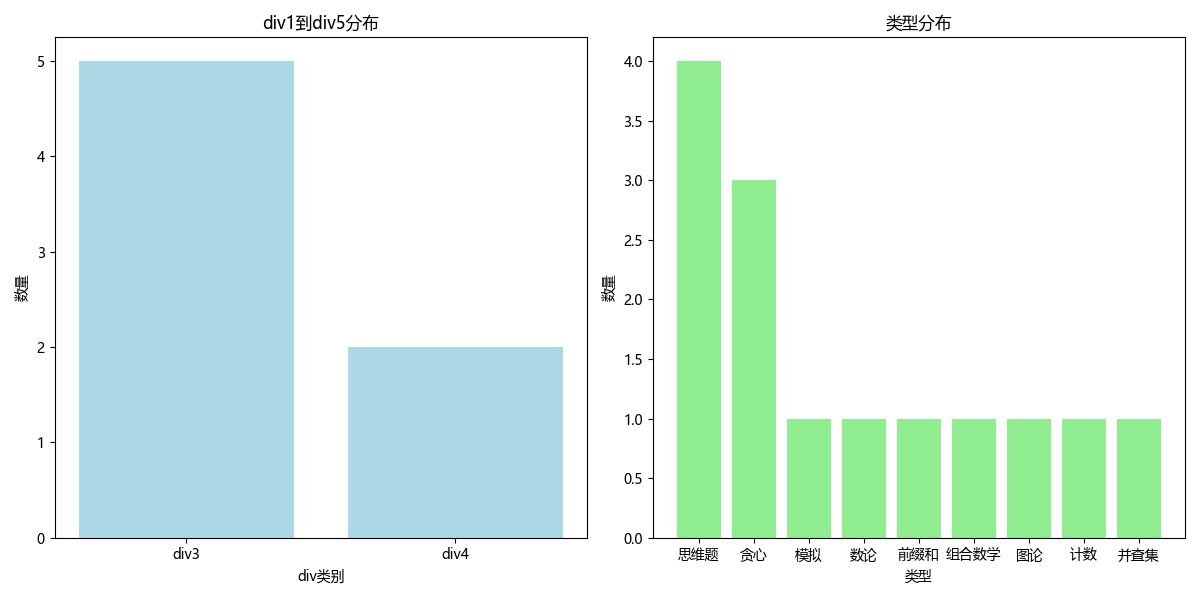
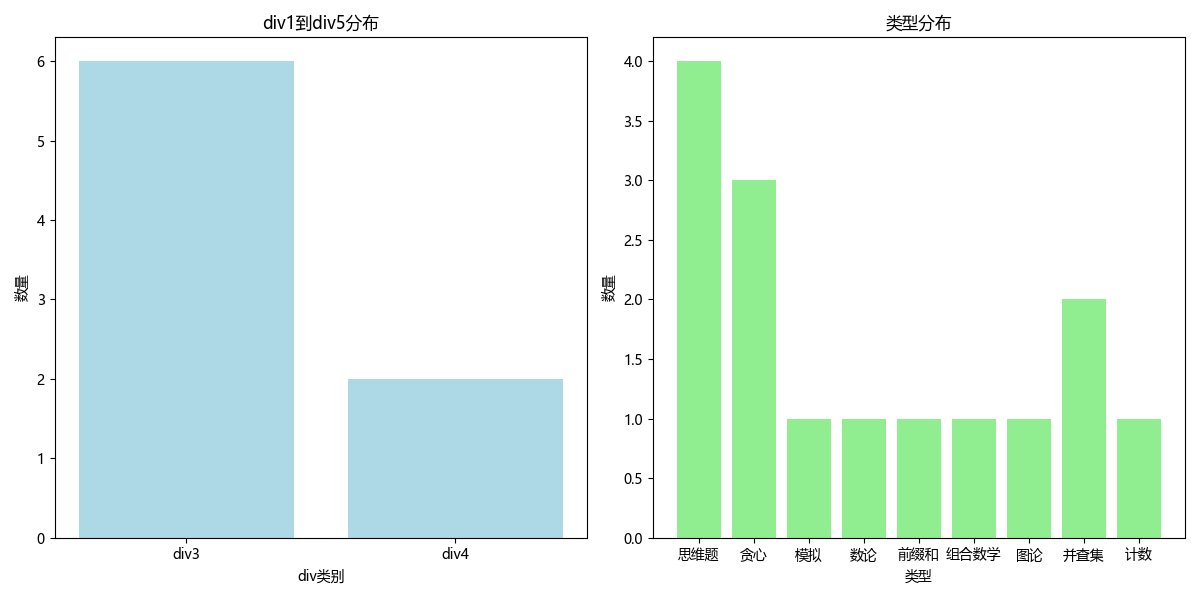
gg

Changed region(s): [[0.8633, 0.48, 0.925, 0.72], [0.2775, 0.57, 0.4933, 0.63], [0.8942, 0.9, 0.9867, 0.96]]

diff --git a/算法/周赛补题/数据收集脚本/src/main.py b/算法/周赛补题/数据收集脚本/src/main.py
@@ -3,10 +3,12 @@ import re
 import json
 import sys
 import time
-import matplotlib.pyplot as plt
+import argparse
 from collections import defaultdict
+from watchdog.observers import Observer
+from watchdog.events import FileSystemEventHandler
+import matplotlib.pyplot as plt
 from matplotlib import font_manager
-
 
 # ------------------------------ 配置文件处理 ------------------------------
 def resource_path(relative_path):
@@ -116,7 +118,7 @@ def plot_statistics(div_counts, type_counts, save_path):
     print(f"统计图表已保存到：{save_path}")
 
 
-def print_statistics(file_info):
+def print_statistics(file_info, save_directory):
     """ 打印统计信息并调用可视化输出 """
     div_counts = defaultdict(int)
     type_counts = defaultdict(int)
@@ -137,77 +139,76 @@ def print_statistics(file_info):
     for t, count in type_counts.items():
         print(f"{t}: {count} 个")
 
-    # 获取脚本所在目录
-    script_dir = os.path.dirname(os.path.abspath(__file__))
-
-    # 读取配置文件
-    config = load_config()
-
-    # 从配置文件中获取根目录路径（如果为空则使用脚本所在目录）
-    root_directory = config.get("root_directory", "")
-    if not root_directory:
-        root_directory = script_dir  # 如果为空，使用当前脚本所在目录作为根目录
-
-    print(f"自动使用根目录：{root_directory}")
-
-    # 从配置文件中获取 PNG 保存目录（相对路径）
-    png_save_directory = config.get("png_save_directory", "output")
-
-    # 拼接保存路径，确保目标文件夹存在
-    save_dir = os.path.join(script_dir, png_save_directory)
-    os.makedirs(save_dir, exist_ok=True)
-
-    # 定义保存的 PNG 路径
-    save_path = os.path.join(save_dir, "训练数据.png")
-
-    # 调用绘制并保存函数
+    # 确定保存路径
+    save_path = os.path.join(save_directory, "训练数据.png")
+    os.makedirs(save_directory, exist_ok=True)
     plot_statistics(div_counts, type_counts, save_path)
 
 
-# ------------------------------ 定期刷新终端日志 ------------------------------
-def clear_terminal():
-    """ 清理终端输出 """
-    if sys.platform == "win32":
-        os.system("cls")  # Windows
-    else:
-        os.system("clear")  # Linux / macOS
+# ------------------------------ 文件夹监听 ------------------------------
+class DirectoryHandler(FileSystemEventHandler):
+    """ 文件夹变化事件处理 """
+    def __init__(self, directory, save_directory):
+        self.directory = directory
+        self.save_directory = save_directory
+
+    def on_any_event(self, event):
+        """ 当任何文件发生变化时，重新扫描并更新统计 """
+        print(f"检测到变化: {event.src_path}")
+        file_info = scan_directory(self.directory)
+        print_statistics(file_info, self.save_directory)
+
+
+def start_watching(directory, save_directory, interval):
+    """ 启动目录监听 """
+    event_handler = DirectoryHandler(directory, save_directory)
+    observer = Observer()
+    observer.schedule(event_handler, directory, recursive=True)
+    observer.start()
+    print(f"开始监听目录: {directory}，每 {interval} 秒检查一次")
+
+    try:
+        while True:
+            time.sleep(interval)  # 使用监听间隔时间
+    except KeyboardInterrupt:
+        observer.stop()
+        print("监听停止")
+    observer.join()
 
 
 # ------------------------------ 主程序入口 ------------------------------
 if __name__ == "__main__":
-    # 获取当前脚本的路径，并获取配置的根目录路径（如果为空，则使用脚本所在目录）
-    script_dir = os.path.dirname(os.path.abspath(__file__))
+    parser = argparse.ArgumentParser(description="文件夹统计工具")
+    parser.add_argument(
+        "-m", "--mode", type=int, choices=[0, 1], default=1,
+        help="运行模式：1 为手动扫描模式，0 为实时监听模式（默认: 1）"
+    )
+    parser.add_argument(
+        "-i", "--interval", type=float, default=1.0,
+        help="监听间隔时间，仅在 0 模式下有效（单位：秒，默认: 1.0）"
+    )
+    args = parser.parse_args()
 
     # 读取 JSON 配置文件
     config = load_config()
-
     root_directory = config.get("root_directory", "")
-    if not root_directory:
-        root_directory = script_dir  # 如果为空，使用当前脚本所在目录作为根目录
+    save_directory = config.get("png_save_directory", "")
 
-    print(f"自动使用根目录：{root_directory}")
+    if not root_directory:
+        root_directory = os.path.dirname(os.path.abspath(__file__))  # 如果为空，使用当前脚本目录作为根目录
+
+    if not save_directory:
+        save_directory = resource_path("output")  # 如果为空，默认保存到 output
 
     # 设置中文字体
     set_chinese_font(config)
 
-    # 扫描该目录及子目录中的所有文件
-    file_info = scan_directory(root_directory)
-
-    # 判断运行模式和刷新间隔
-    if len(sys.argv) < 2:
-        print("错误: 缺少模式参数！")
-        sys.exit(1)
-
-    mode = int(sys.argv[1])  # 0: 一次性生成图表, 1: 定时刷新
-    if mode == 1:
-        if len(sys.argv) < 3:
-            print("错误: 缺少时间参数！")
-            sys.exit(1)
-
-        interval = int(sys.argv[2])  # 定时刷新间隔（秒）
-        while True:
-            clear_terminal()  # 清空终端输出
-            print_statistics(file_info)
-            time.sleep(interval)  # 每隔一定时间刷新一次图表
-    else:
-        print_statistics(file_info)  # 仅生成一次图表
+    if args.mode == 1:
+        # 手动扫描模式
+        print("进入 1 模式：手动扫描目录")
+        file_info = scan_directory(root_directory)
+        print_statistics(file_info, save_directory)
+    elif args.mode == 0:
+        # 实时监听模式
+        print(f"进入 0 模式：实时监听目录，每 {args.interval} 秒检查一次")
+        start_watching(root_directory, save_directory, args.interval)
